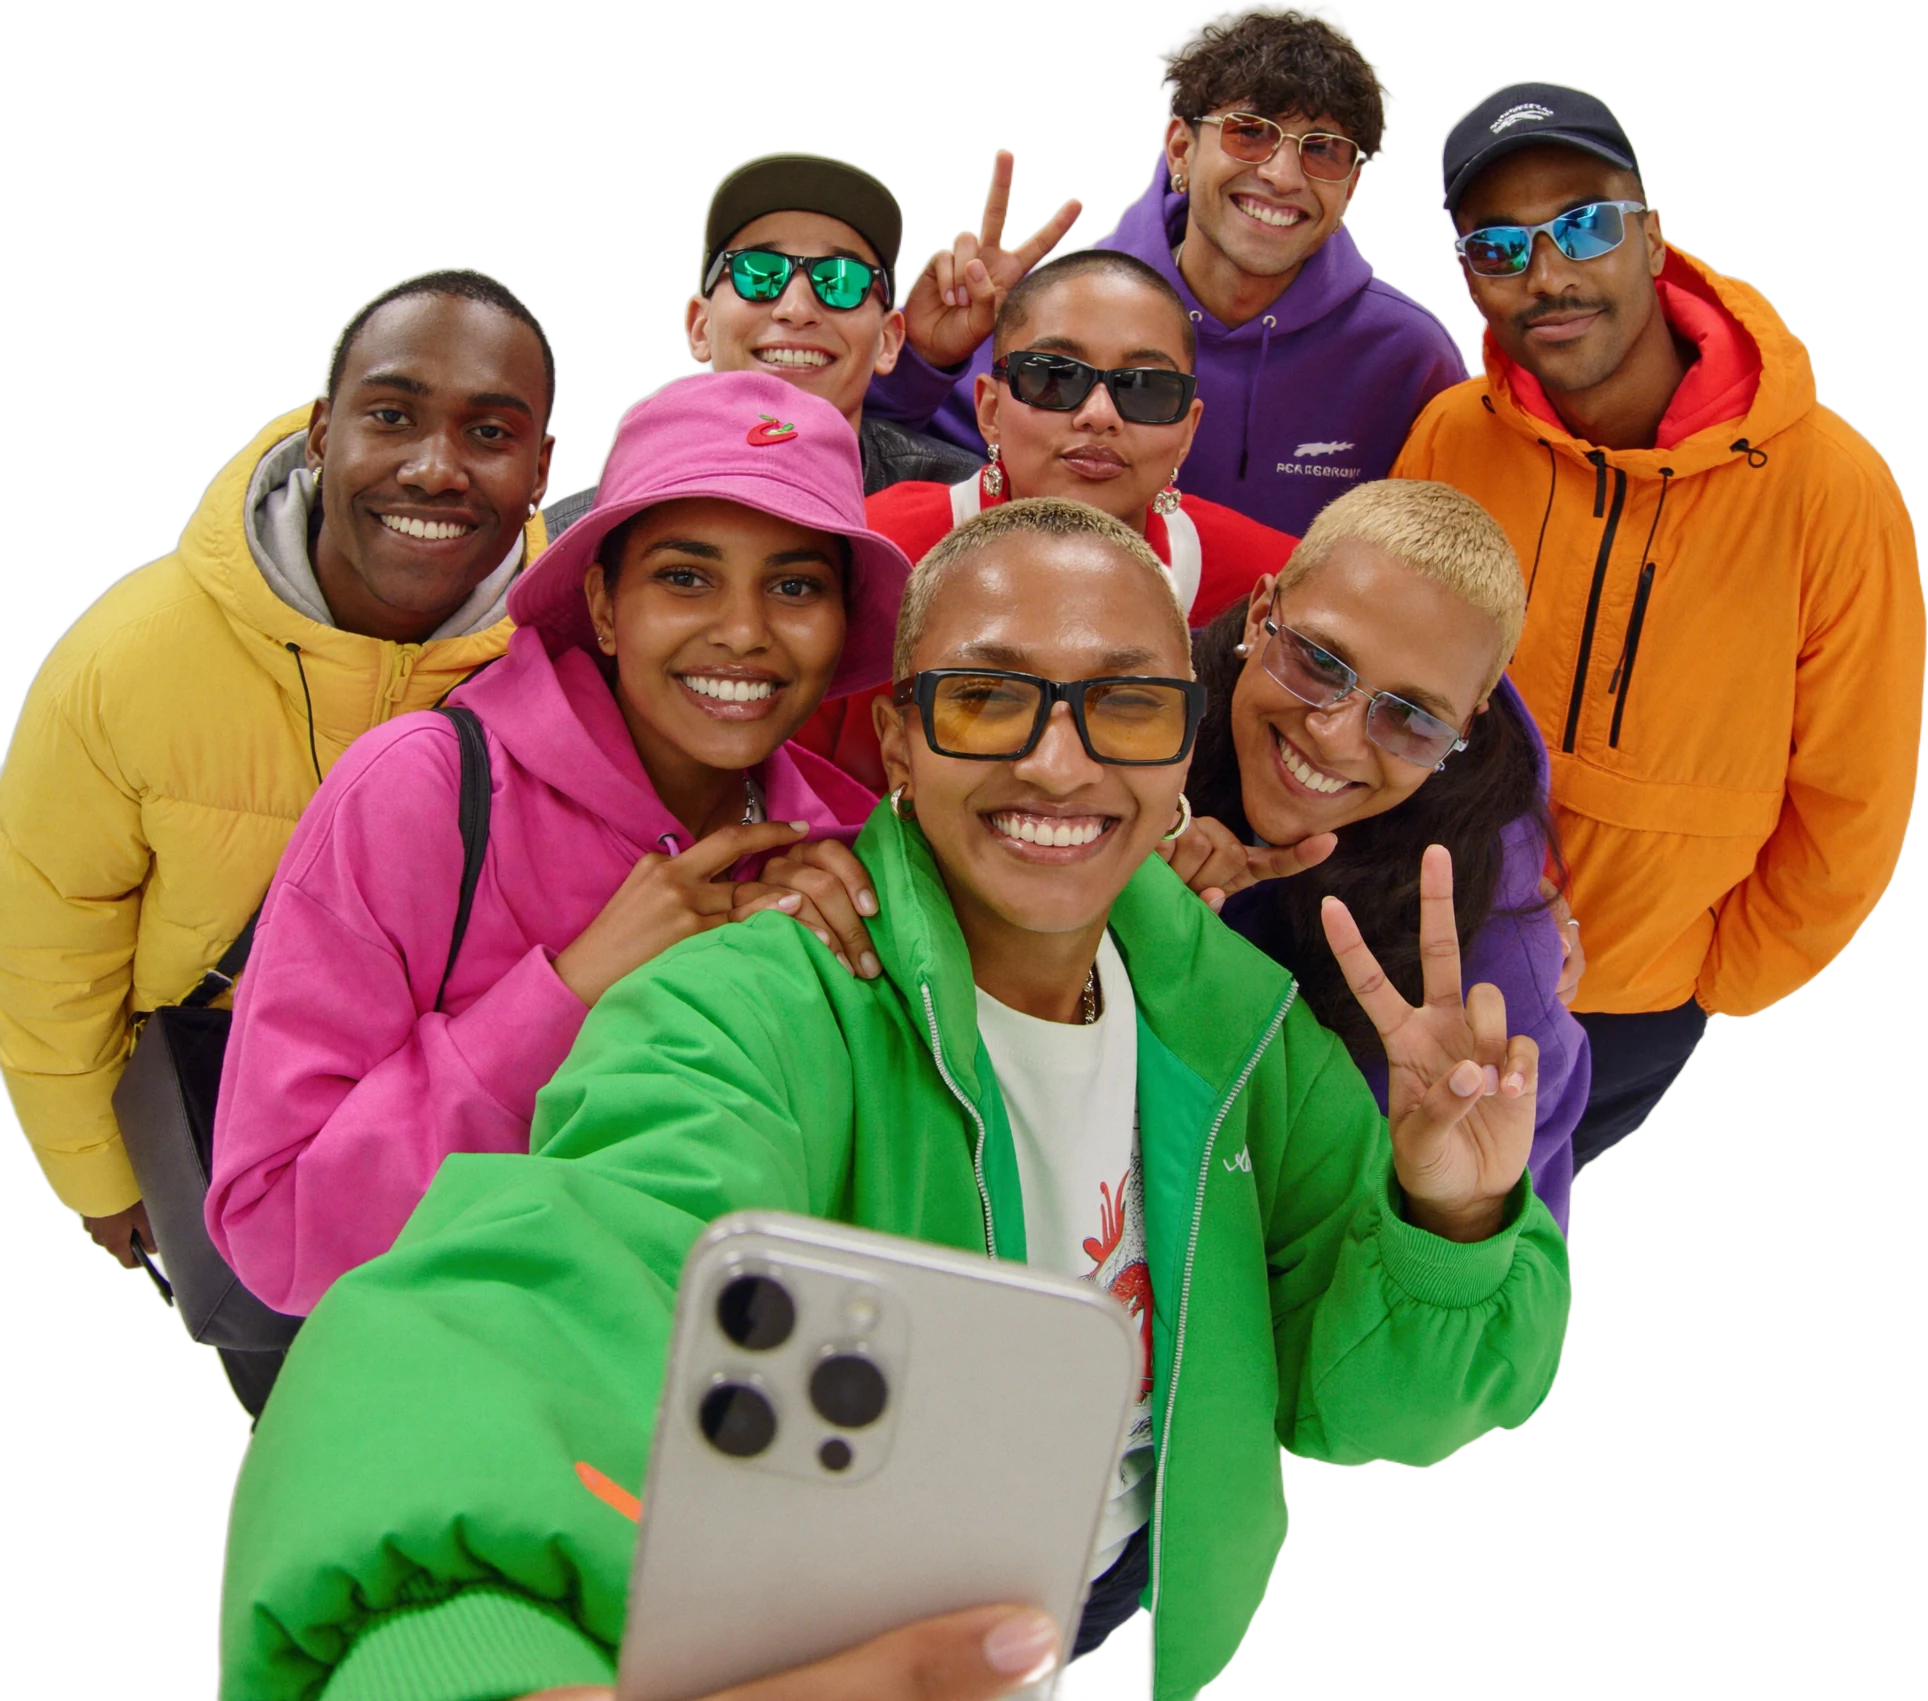
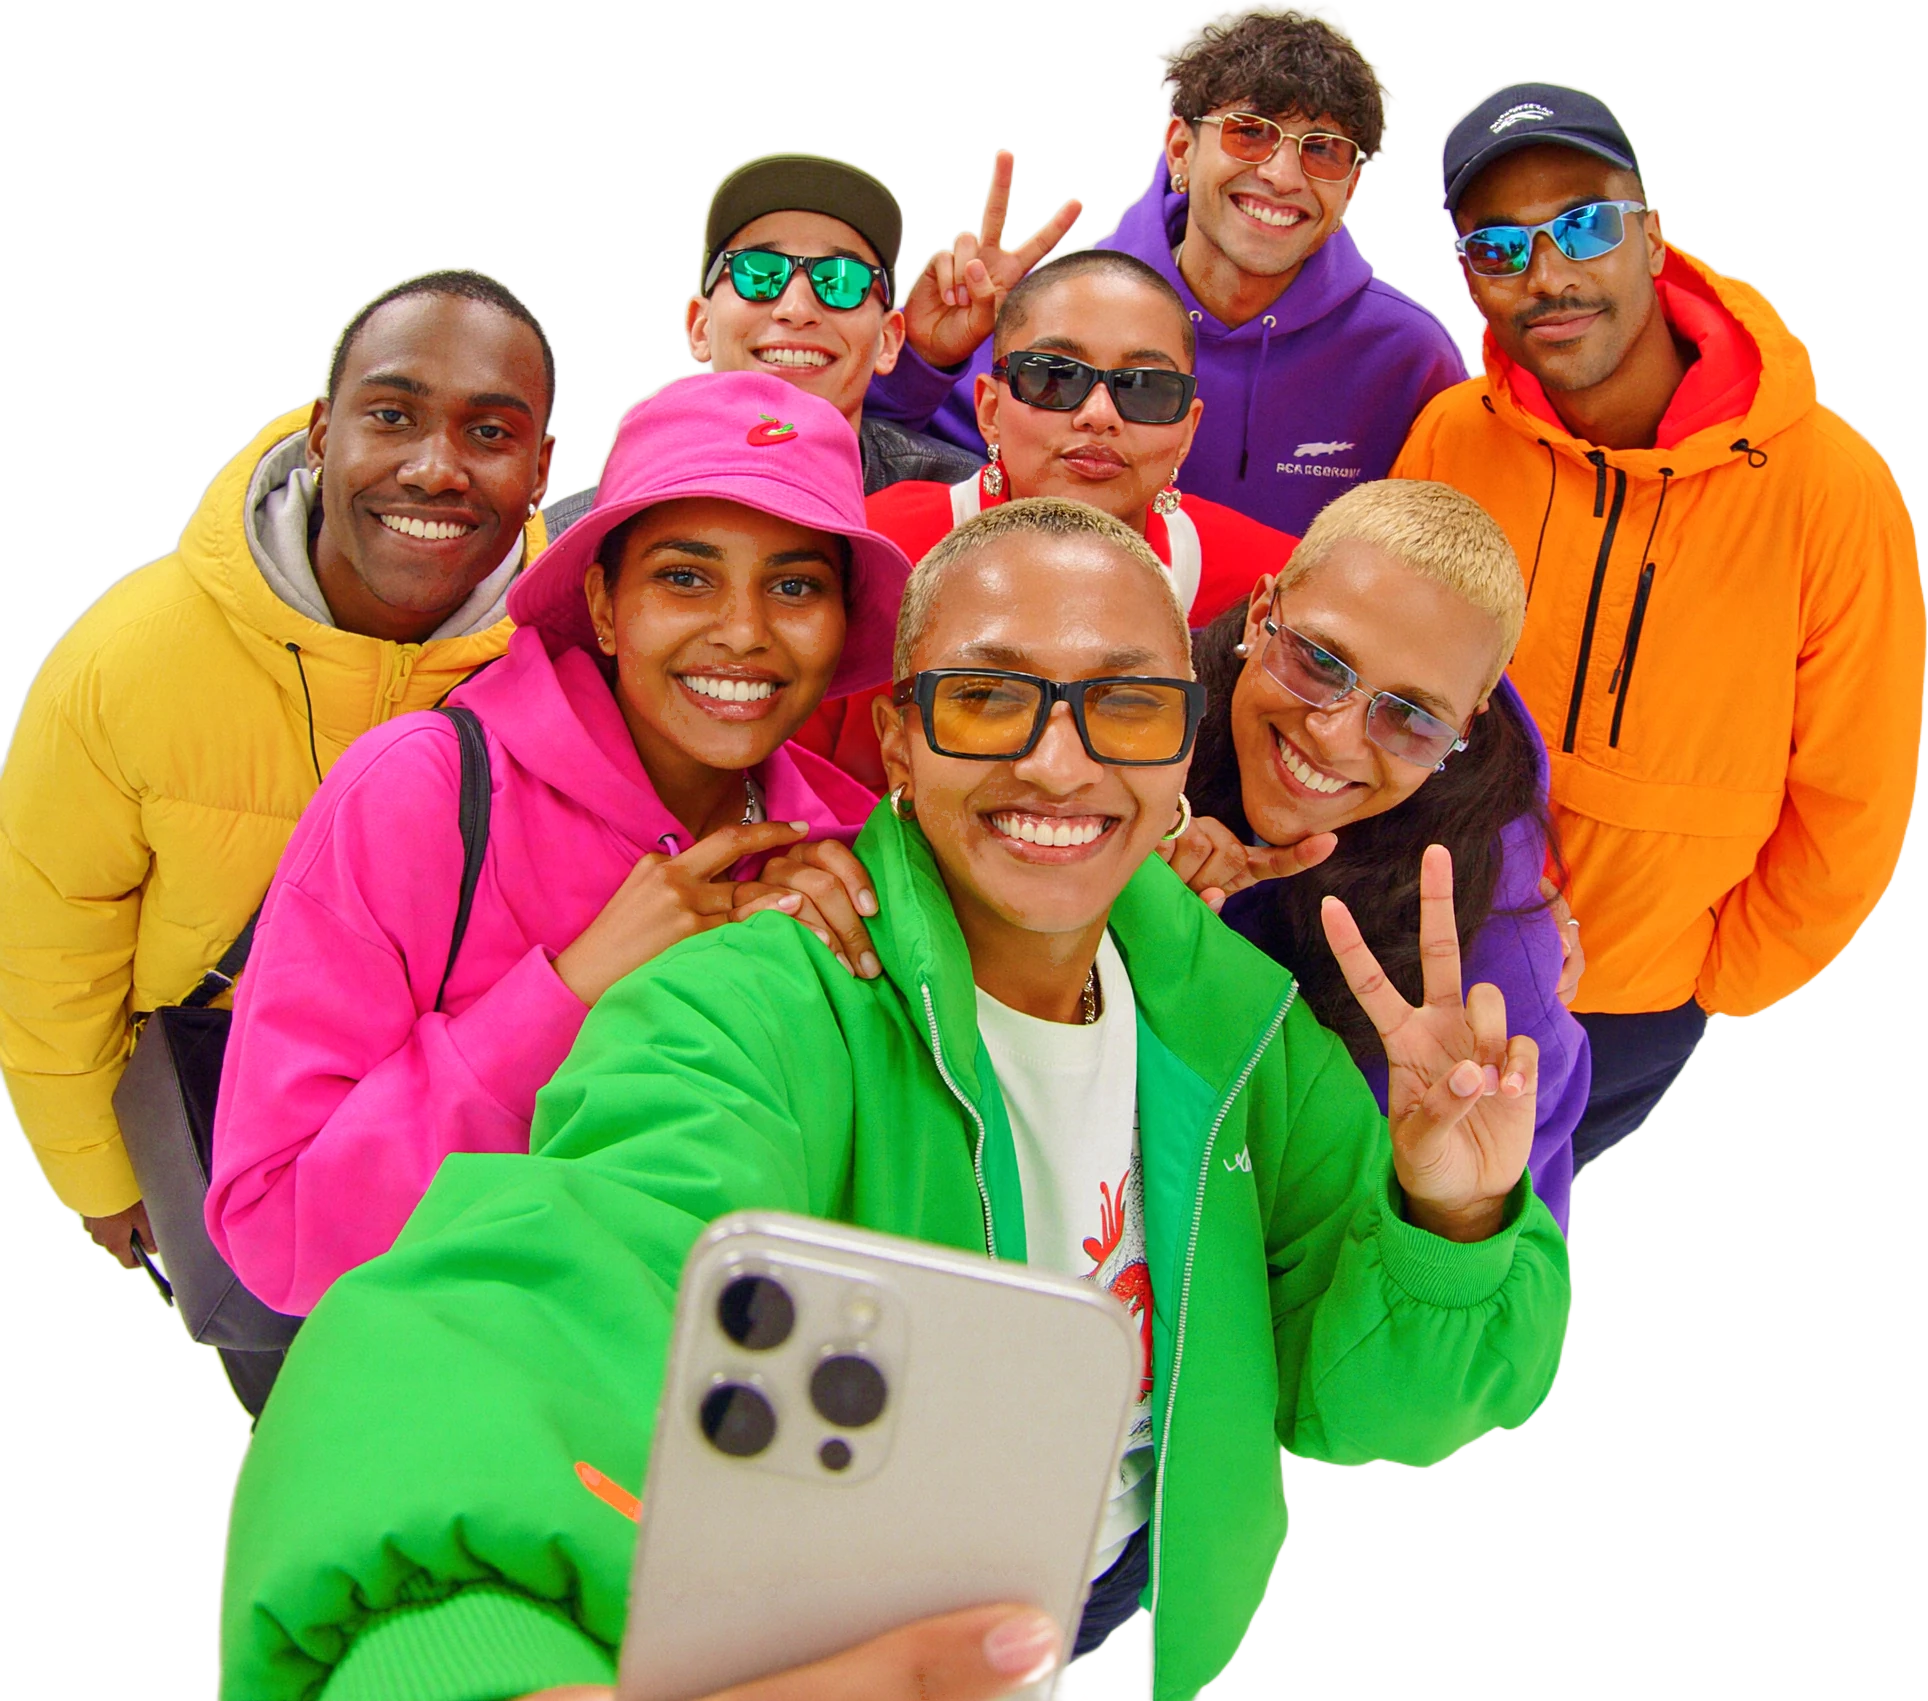
Option F: no-blue version with a brighter photo grade
- Tuff poster back on yellow, so the posters alternate yellow/white like
  MÜLER; the sticker strip is black instead of cobalt.
- New grade.py: one bright high-key grade for every photo (lifted shadows,
  more exposure, clean whites, vibrance with skin protected, light sharpen).
- The cobalt variant is still built for comparison into alt-with-blue/.

Claude-Session: https://claude.ai/code/session_01NrMtghnAqTCHrJUFmunmEE

diff --git a/source/moodboard/grade.py b/source/moodboard/grade.py
@@ -1,0 +1,60 @@
+"""One bright, high-key grade for every photo, closer to the MÜLER look than the generator's
+muted editorial grade: lifted shadows, a touch more exposure, cleaner whites, richer clothing
+colour (vibrance) with skin protected, and a little crispness."""
+import numpy as np
+from PIL import Image
+from scipy import ndimage as ndi
+
+
+def _hsv(rgb):
+    mx, mn = rgb.max(-1), rgb.min(-1)
+    d = mx - mn
+    s = np.where(mx > 0, d / np.maximum(mx, 1e-6), 0)
+    r, g, b = rgb[..., 0], rgb[..., 1], rgb[..., 2]
+    h = np.zeros_like(mx)
+    m = d > 1e-6
+    rc = np.where(m, (mx - r) / np.maximum(d, 1e-6), 0)
+    gc = np.where(m, (mx - g) / np.maximum(d, 1e-6), 0)
+    bc = np.where(m, (mx - b) / np.maximum(d, 1e-6), 0)
+    h = np.where(r == mx, bc - gc, np.where(g == mx, 2 + rc - bc, 4 + gc - rc))
+    h = (h / 6) % 1
+    return h, s, mx
+
+
+def _rgb(h, s, v):
+    i = np.floor(h * 6).astype(int) % 6
+    f = h * 6 - np.floor(h * 6)
+    p, q, t = v * (1 - s), v * (1 - s * f), v * (1 - s * (1 - f))
+    out = np.stack([
+        np.choose(i, [v, q, p, p, t, v]),
+        np.choose(i, [t, v, v, q, p, p]),
+        np.choose(i, [p, p, t, v, v, q])], -1)
+    return out
+
+
+def grade(im, exposure=1.08, lift=0.5, vibrance=0.55, whites=0.7, sharpen=0.4):
+    a = np.asarray(im.convert('RGBA')).astype(np.float32) / 255
+    rgb, alpha = a[..., :3], a[..., 3:]
+
+    # exposure, then lift the shadows and lower mids through a luminance curve (keeps hue)
+    rgb = np.clip(rgb * exposure, 0, 1)
+    lum = rgb @ np.array([0.2126, 0.7152, 0.0722], np.float32)
+    curved = lum + lift * lum * (1 - lum) ** 2
+    rgb = np.clip(rgb * (curved / np.maximum(lum, 1e-4))[..., None], 0, 1)
+
+    # vibrance: push low-saturation colour more than already-strong colour; spare skin tones
+    h, s, v = _hsv(rgb)
+    skin = np.exp(-((h - 0.07) / 0.05) ** 2) * (s > 0.15) * (s < 0.65)
+    s = np.clip(s * (1 + vibrance * (1 - s) * (1 - 0.9 * skin)), 0, 1)
+    rgb = _rgb(h, s, v)
+
+    # neutral, clean whites: near-white, low-saturation pixels drift toward pure neutral
+    lum = rgb @ np.array([0.2126, 0.7152, 0.0722], np.float32)
+    wmask = np.clip((lum - 0.72) / 0.2, 0, 1) * np.clip(1 - s / 0.18, 0, 1) * whites
+    rgb = rgb * (1 - wmask[..., None]) + np.minimum(lum[..., None] * 1.03, 1) * wmask[..., None]
+
+    # a little crispness (unsharp mask on the colour, not the edges of the cut-out)
+    blur = np.stack([ndi.gaussian_filter(rgb[..., c], 1.4) for c in range(3)], -1)
+    rgb = np.clip(rgb + sharpen * (rgb - blur), 0, 1)
+
+    return Image.fromarray((np.concatenate([rgb, alpha], -1) * 255).round().astype(np.uint8), 'RGBA')

diff --git a/source/moodboard/build.py b/source/moodboard/build.py
@@ -9,11 +9,14 @@ take any brand colour. Every background carries a faint tone-on-tone doodle patt
 """
 import json
 import math
+import os
 import random
 
 KIT = json.load(open('kit/sizes.json'))
 IMG = json.load(open('img/sizes.json'))
 STK = json.load(open('stickers/sizes.json'))
+# WRAPSHAP_BLUE=1 builds the earlier variant with the cobalt tuff poster and a cobalt sticker strip
+BLUE = os.environ.get('WRAPSHAP_BLUE') == '1'
 LOGO_AR = 219.12 / 79.92
 
 C = {
@@ -205,6 +208,10 @@ POSTERS = [
     dict(bg='cobalt', lab='tuff.', logo='white', model='p3', mh=250, mx=-24, lab_color='white',
          brush=('brush-m', 'yellow', 10, 110, 180, -6, 'v'),
          copy=('EVERY<br>PHONE<br>FALLS.', 'r', 'white'), pop=('doodle-crown', 'yellow', (46, 108, 36, -10)),
+         sticker='smiley') if BLUE else
+    dict(bg='yellow', lab='tuff.', logo='white', model='p3', mh=250, mx=-24,
+         brush=('brush-m', 'white', 10, 110, 180, -6, 'v'),
+         copy=('EVERY<br>PHONE<br>FALLS.', 'r'), pop=('doodle-crown', 'ink', (46, 108, 36, -10)),
          sticker='smiley'),
     dict(bg='white', lab='matte.', logo='ink', model='p4', mh=236, mx=0,
          brush=('brush-zigzag-arrow', 'yellow', 22, 80, 176, -20),
@@ -278,6 +285,7 @@ def tiles():
 
 
 STRIP_H = 80
+STRIP_BG = C['ink']   # also tried: white (quietest), yellow (like the original sticker sheet)
 STRIP = [  # sticker, height, rotation
     ('crown', 54, -8), ('cut60', 60, 6), ('exactfit', 44, -6), ('logo-orig', 44, 0),
     ('nomore', 60, 5), ('smiley', 56, -5), ('sparkle', 56, 10), ('wegotyou', 60, 4),
@@ -294,7 +302,8 @@ def strip():
     for (n, h, rot), w in zip(STRIP, widths):
         e.append(st(n, round(x, 1), round((STRIP_H - h) / 2, 1), round(w, 1), rot=rot, z=2))
         x += w + gap
-    return f'<section class="strip" style="height:{STRIP_H}px">{"".join(e)}</section>'
+    bg = C['cobalt'] if BLUE else STRIP_BG
+    return f'<section class="strip" style="height:{STRIP_H}px;background:{bg}">{"".join(e)}</section>'
 
 
 def swatch(x, y, sq, bg, inner=''):
@@ -379,7 +388,6 @@ section,.poster,.tile{position:relative;overflow:hidden}
 .poster{position:absolute;width:200px;height:355.5556px}
 .tiles{position:relative;height:330px;margin-top:6px}
 .tile{position:absolute;top:0;height:330px}
-.ph{filter:contrast(1.05) saturate(1.08) brightness(1.02)}
 .strip{background:COBALT;margin-top:6px}
 .guide{background:#FAFAF7;margin-top:6px}
 .mk,.logo,.ph,.sv,.hand,.lab,.sw,.tx,.st{position:absolute;display:block}

diff --git a/source/moodboard/export.py b/source/moodboard/export.py
@@ -46,6 +46,16 @@ if __name__ == '__main__':
         if f.endswith('.png'):
             shutil.copy(os.path.join(HERE, 'kit', f), os.path.join(OUT, '04-kit', f))
     shot('pattern.html', os.path.join(OUT, '04-kit', 'doodle-pattern-1080.png'), 1080, 1080, 1, transparent=True)
+    # the earlier variant with the cobalt tuff poster and cobalt sticker strip, for comparison
+    alt = os.path.join(OUT, 'alt-with-blue')
+    os.makedirs(alt, exist_ok=True)
+    env = dict(os.environ, WRAPSHAP_BLUE='1')
+    subprocess.run(['python3', 'build.py'], cwd=HERE, check=True, env=env)
+    shot('board.html', tmp, 1024, 1536, 3)
+    to_jpg(tmp, os.path.join(alt, 'wrapshap-brand-board-with-blue.jpg'))
+    shot('poster-3.html', tmp, 1080, 1920, 1)
+    to_jpg(tmp, os.path.join(alt, 'wrapshap-story-03-tuff-blue-1080x1920.jpg'))
+    subprocess.run(['python3', 'build.py'], cwd=HERE, check=True)   # back to the main variant
     for f in sorted(os.listdir(os.path.join(HERE, 'stickers'))):
         if f.endswith('.webp'):
             shutil.copy(os.path.join(HERE, 'stickers', f), os.path.join(OUT, '05-stickers', 'wrapshap-sticker-' + f[3:]))

diff --git a/source/moodboard/prep_photos.py b/source/moodboard/prep_photos.py
@@ -2,10 +2,12 @@
 
 photos_raw/ holds the full-size Higgsfield generations and cut-outs; it is not committed.
 Selected shots:  hero = hw_a (wide straddle jump),  poster 1-5 = p1_a, p2_b, p3_a, p4_b, p5_a (3 and 4 retouched, see retouch.py),
-tile 1 (hand + phone) = t1_b, tile 2 (group) = t2_b, tile 3 (face) = t3_a."""
+tile 1 (hand + phone) = t1_b, tile 2 (group) = t2_b, tile 3 (face) = t3_a.
+Every photo gets the same bright grade (grade.py) so the set reads as one high-key shoot."""
 import json
 import numpy as np
 from PIL import Image
+from grade import grade
 
 PICKS = {  # output name: (cut-out file, max height px)
     'hero': ('hw_cut.png', 1500),
@@ -22,6 +24,7 @@ for name, (src, hmax) in PICKS.items():
     im = im.crop(box)
     if im.height > hmax:
         im = im.resize((round(im.width * hmax / im.height), hmax), Image.LANCZOS)
+    im = grade(im)
     im.save(f'img/{name}.webp', quality=90, method=6)
     info[name] = {'w': im.width, 'h': im.height, 'src_box': box}
     print(name, im.size)

diff --git a/README.md b/README.md
@@ -45,6 +45,7 @@ the hero, posters and tiles and shown in full on a blue sticker strip, and every
 | `02-stories/wrapshap-story-0X-….jpg` | The five posters as 1080 × 1920 Instagram/WhatsApp stories: clear, privacy, tuff, matte, 60 sec |
 | `03-logo/` | Logo SVGs: black, white, black with the white sticker rim, and the full-colour original |
 | `04-kit/` | The hand-made graphic kit as transparent PNG masks (brushes, crown, smiley, stars, scribbles, arrow, grunge texture). Recolour them to any palette colour. `doodle-pattern-1080.png` is the background doodle pattern on its own (black on transparent). Use it at about 6–8% opacity on paper/white, or tinted darker yellow on yellow |
+| `alt-with-blue/` | The previous variant for comparison: the same board with the cobalt tuff poster and a cobalt sticker strip, plus that tuff story |
 | `05-stickers/` | Your sticker set (crown, CUT IN 60 SEC, EXACT FIT, wrapshap logo, NO MORE ALMOST., smiley, sparkle, WE GOT YOU.) as transparent WebPs. Taken from your earlier board's assets, unchanged. The logo sticker uses the real logo |
 
 ### Colour
@@ -57,7 +58,7 @@ the hero, posters and tiles and shown in full on a blue sticker strip, and every
 | Graphite | `#4B4B4B` | Secondary text |
 | Mist | `#D5D5D0` | Grey brush, dividers |
 | Pop Pink | `#FF3DA5` | Pop |
-| Pop Cobalt | `#2350F0` | Pop, and the one non-yellow poster background |
+| Pop Cobalt | `#2350F0` | Pop (the clear model's hoodie). Only the `alt-with-blue` variant uses it as a background |
 | Pop Green | `#19B85B` | Pop |
 | Pop Violet | `#7C4DFF` | Pop |
 | Logo Orange | `#F39200` | Pop (from the logo) |
@@ -73,8 +74,15 @@ Both are free on Google Fonts.
   appears small. If you want the orange logo big anyway, it's a one-line change per placement in `build.py`.
 - **More colour, with yellow still leading. Rule: "one pop per piece."** Every piece is yellow + black + paper, plus
   one pop colour taken from the model's outfit (the pink jacket gets pink doodles, the green tracksuit gets green).
-  The **tuff** poster is on cobalt blue to break the all-yellow/white row. Swap it back to yellow or white if that's
-  too far from MÜLER.
+  The colour comes from the outfits and the doodles, not from extra backgrounds: the posters alternate yellow and
+  white exactly like MÜLER. An earlier variant put the tuff poster and the sticker strip on cobalt blue. It's
+  kept in `alt-with-blue/` for comparison.
+- **The sticker strip is black.** It keeps the strip as an anchor under the tiles in a core brand colour, and the
+  stickers' white die-cut edges pop hardest on it. White (quietest) and yellow (like the original sticker sheet)
+  were also tried; `STRIP_BG` in `build.py` switches it.
+- **All photos share one bright, high-key grade** (`grade.py`): shadows lifted, a touch more exposure, cleaner
+  whites, richer clothing colour with skin tones protected, slight sharpening. The generator's own grade was
+  muted and grey in the shadows, which is what made the models look dull next to MÜLER.
 - **The hero uses a wide, low jump (legs split sideways), centred under the full-width logo.** With the earlier
   tall jumping pose, a centred model hid three letters. The wide pose keeps her body below the letters, so like
   MÜLER she hides about one ("p"), and the whole logo still reads. This photo was cut out with a free local
@@ -89,7 +97,7 @@ Both are free on Google Fonts.
   surfaces look dirty. Stronger or weaker is a one-line change (`BG_TONE` in `build.py`).
 - **Cleanliness rules applied after a critique pass:** every poster uses one template (label, logo, one brush,
   a big model bleeding off the bottom, one handwritten line in the lower third, one pop doodle, one sticker).
-  The handwriting is condensed like marker lettering, and all photos share one grade. The guide strip was thinned
+  The handwriting is condensed like marker lettering. The guide strip was thinned
   to the MÜLER layout (no hex labels on the board, 2 × 2 textures). The HEX codes are in the table above.
 - **Copy comes from your earlier work, not invented.** The product names (clear, privacy, tuff, matte, 60 sec) and
   lines ("NO MORE ALMOST.", "EXACT FIT.", "LOUD OUTSIDE. EXACT INSIDE.", "EVERY PHONE FALLS.") come from your previous
@@ -110,7 +118,7 @@ Both are free on Google Fonts.
 ### Rebuilding Option F
 
 In `source/moodboard/`: `make_logos.py` → `retouch.py` → `prep_photos.py` → `extract_kit.py` → `build.py` →
-`export.py`. The stickers the board uses are committed in `stickers/`. The full-size generations aren't in git (`photos_raw/` is ignored). Their Higgsfield job IDs are in
+`export.py` (which also builds the `alt-with-blue` variant via `WRAPSHAP_BLUE=1`). The stickers the board uses are committed in `stickers/`. The full-size generations aren't in git (`photos_raw/` is ignored). Their Higgsfield job IDs are in
 `higgsfield_jobs.json`, and the cropped photos the board actually uses are committed in `img/`, so `build.py` and
 `export.py` work without them. Needs Python (PyMuPDF, Pillow, NumPy, SciPy), Node with Playwright, and DM Sans +
 Permanent Marker TTFs in `fonts/` at the repo root. `retouch.py` also needs `rembg` (`pip install "rembg[cpu]"`),
